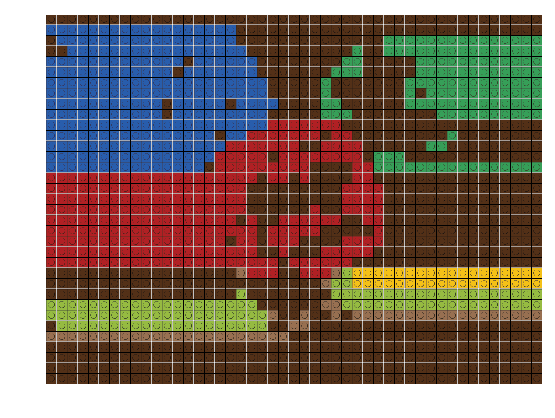
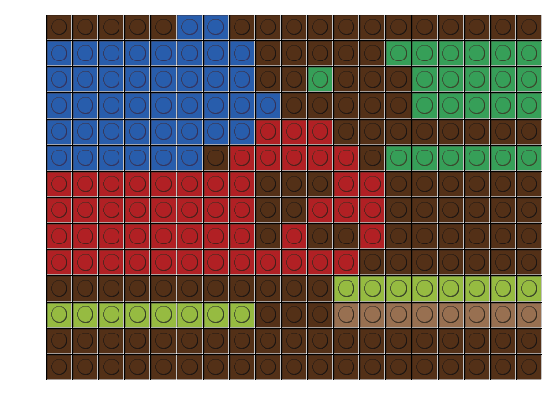
Final functionality added of brick kind count

diff --git a/Code/GUI.py b/Code/GUI.py
@@ -173,8 +173,9 @@ class AppBody(FloatLayout):
         '''
         Displays label for selected image.
         '''
-        self.add_widget(Label(text= 'Here is your image!:', size_hint=(.1, .1),
-                pos_hint= {'x':.15, 'y':.8}))
+        self.add_widget(Label(text= '[b]Here is your image!:[/b]', markup = True,
+                size_hint=(.1, .1),
+                pos_hint= {'x':.1, 'y':.9}, font_size='20sp'))
     def drawImage2(self):
         '''
         Displays the pixelated image.
@@ -183,20 +184,24 @@ class AppBody(FloatLayout):
         pixelationProgram.input_mat_size = input_mat_size
         pixelationProgram.runPixel()
         self.wimg = Image(source = 'teamLEGGO_pix.png', size_hint=(.6, .6),
-                pos_hint= {'x':.2, 'y':.2})
+                pos_hint= {'x':.2, 'y':.3})
         self.add_widget(self.wimg)
         bricksUsed, cost = pixelationProgram.get_price(pixelationProgram.lego_nums, pixelationProgram.input_mat_size)
         self.add_widget(Label(text= bricksUsed, size_hint=(.1, .1),
-                pos_hint= {'x':.5, 'y':0}))
+                pos_hint= {'x':.45, 'y':.1}))
         self.add_widget(Label(text= cost, size_hint=(.1, .1),
-                pos_hint= {'x':.5, 'y':.1}))
+                pos_hint= {'x':.45, 'y':.15}))
+        self.button1 = Button(text = 'LEGOs Needed', size_hint=(.2, .05),
+                pos_hint= {'x':.4, 'y':.05})
+        self.add_widget(self.button1)
+        self.button1.bind(on_press = self.call)
     def call(self, instance):
         '''
-        Runs the Lego mosaic main interface again.
+        Outputs LEGOs needed popup
         '''
-        if instance.text == 'Back':
-            self.clear_widgets()
-            Leggo_Mosiaac().run()
+        if instance.text == 'LEGOs Needed':
+            numlego = NumLego()
+            numlego.popup()
 
 
 class PngPls(Popup):
@@ -220,6 +225,33 @@ class PngPls(Popup):
                          size_hint=(.7, .5))
         mybutton.bind(on_press=pngpopup.dismiss)
         pngpopup.open()
+
+class NumLego(Popup):
+
+    def popup(self):
+        '''
+        Creates a popup to display the number of each Lego you will need
+        '''
+        content = BoxLayout(orientation='vertical')
+        pixelationProgram = vectorStuff()
+        pixelationProgram.input_mat_size = input_mat_size
+        pixelationProgram.runPixel()
+        d = pixelationProgram.make_hist()
+        i = .9
+        for key in d:
+            lenkey = len(key)
+            content.add_widget(Label(text= key.ljust(30) + str(d[key]), size_hint=(.1, .1),
+                    pos_hint= {'x':.5, 'y':i}))
+            i += (-0.1)
+        mybutton = Button(text="Ok!", size_hint=(1, .20), font_size=20)
+        content.add_widget(mybutton)
+
+        numpopup = Popup(content=content,
+                         title="You will need...",
+                         auto_dismiss=False,
+                         size_hint=(.7, .5))
+        mybutton.bind(on_press=numpopup.dismiss)
+        numpopup.open()
 
 
 class SelectFile(App):
@@ -281,8 +313,9 @@ class SelectFile(App):
         '''
         Displays label for selected image.
         '''
-        self.browser.add_widget(Label(text= 'Here is your image!:', size_hint=(.1, .1),
-                pos_hint= {'x':.15, 'y':.8}))
+        self.browser.add_widget(Label(text= '[b]Here is your image!:[/b]', markup = True,
+                size_hint=(.1, .1),
+                pos_hint= {'x':.05, 'y':.8}, font_size='20sp'))
     def drawImage2(self):
         '''
         Displays the pixelated image.
@@ -290,21 +323,25 @@ class SelectFile(App):
         pixelationProgram = vectorStuff()
         pixelationProgram.input_mat_size = input_mat_size
         pixelationProgram.runPixel()
-        self.wimg = Image(source = 'teamLEGGO_pix.png', size_hint=(.6, .6),
-                pos_hint= {'x':.2, 'y':.2})
+        self.wimg = Image(source = 'teamLEGGO_pix.png', size_hint=(1, 1.5),
+                pos_hint= {'x':.05, 'y':.01})
         self.browser.add_widget(self.wimg)
         bricksUsed, cost = pixelationProgram.get_price(pixelationProgram.lego_nums, pixelationProgram.input_mat_size)
         self.browser.add_widget(Label(text= bricksUsed, size_hint=(.1, .1),
-                pos_hint= {'x':.5, 'y':0}))
+                pos_hint= {'x':.5, 'y':0.5}))
         self.browser.add_widget(Label(text= cost, size_hint=(.1, .1),
-                pos_hint= {'x':.5, 'y':.1}))
+                pos_hint= {'x':.5, 'y':.4}))
+        self.button1 = Button(text = 'LEGOs Needed', size_hint=(.5, .1),
+                pos_hint= {'x':.5, 'y':.3})
+        self.browser.add_widget(self.button1)
+        self.button1.bind(on_press = self.call)
     def call(self, instance):
         '''
-        Runs the Lego mosaic main interface again.
+        Outputs LEGOs needed popup
         '''
-        if instance.text == 'Back':
-            self.browser.clear_widgets()
-            Leggo_Mosiaac().run()
+        if instance.text == 'LEGOs Needed':
+            numlego = NumLego()
+            numlego.popup()
 
 
 

diff --git a/Code/vector_analysis.py b/Code/vector_analysis.py
@@ -292,7 +292,7 @@ class vectorStuff():
         """makes a histogram of the legos used to make an image for pricing
            and inventory using in the GUI"""
         d = dict()
-        for c in self.legolist:
+        for c in self.lego_nums:
             d[c] = d.get(c, 0) + 1
 
         return d
